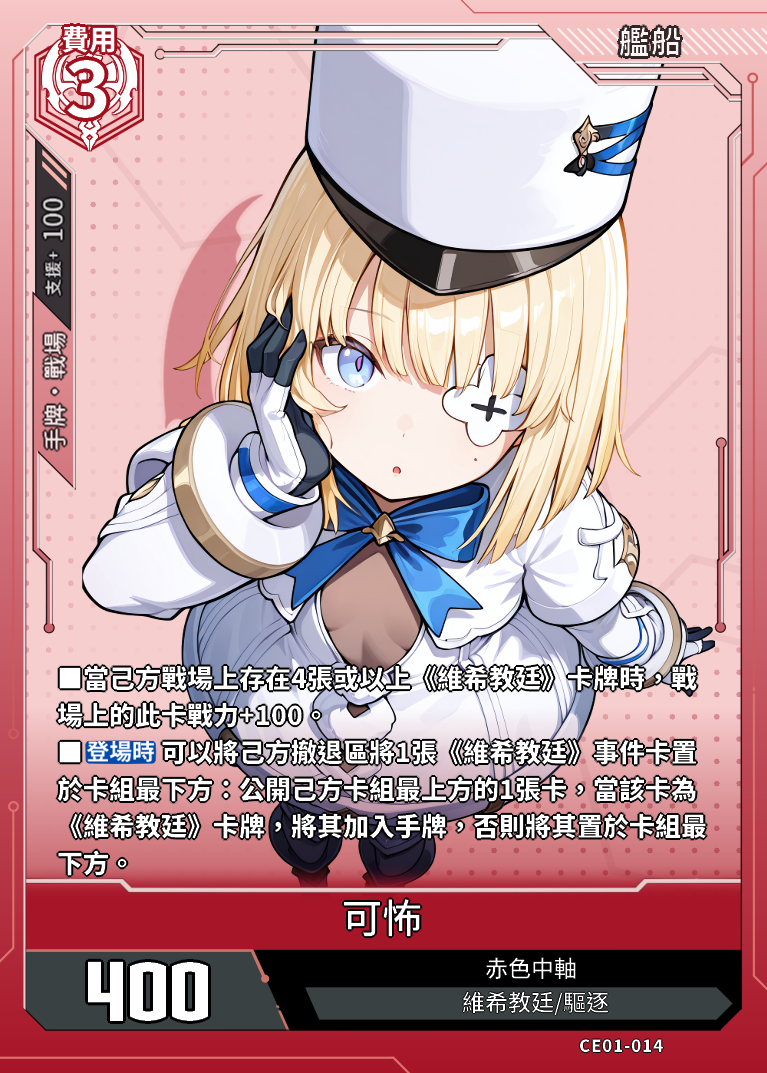
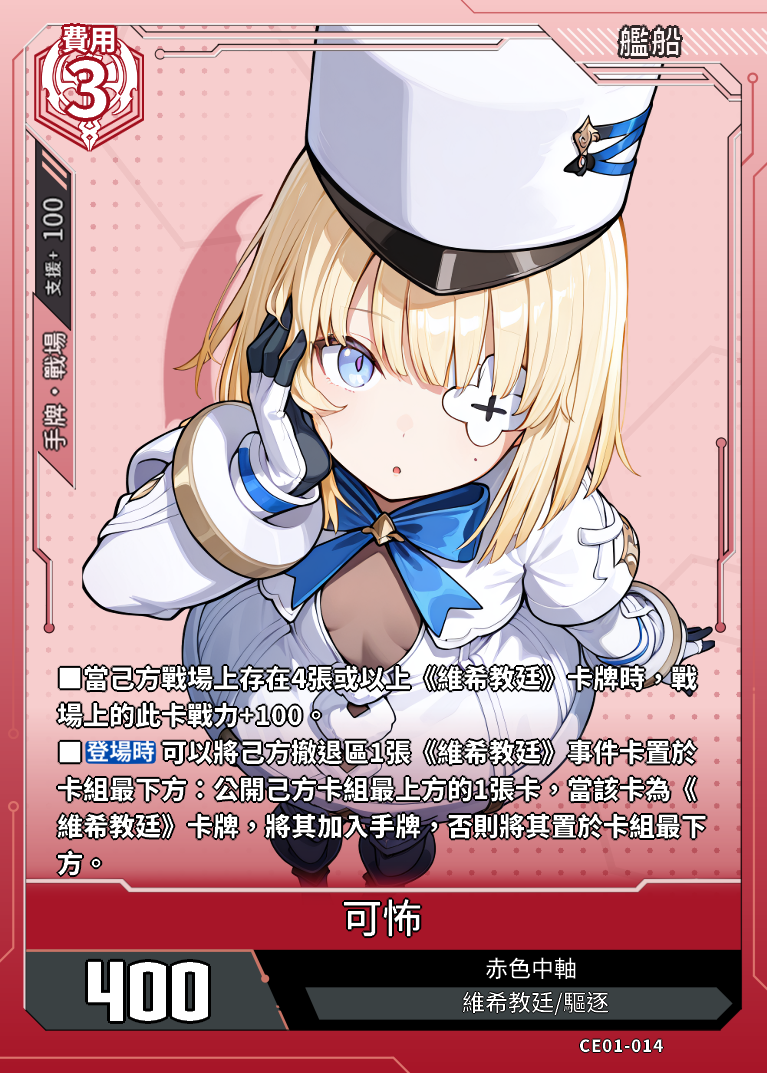
修正可怖文本

Changed region(s): [[0.06, 0.6766, 0.9296, 0.8304]]

diff --git a/data.js b/data.js
@@ -22075,7 +22075,7 @@ const cards = [
             "支援範圍": "手牌·戰場",
             "支援值": "100"
         },
-        "card_effect": "■當己方戰場上存在4張或以上《維希教廷》卡牌時，戰場上的此卡戰力+100。■【登場時】可以將己方撤退區將1張《維希教廷》事件卡置於卡組最下方：公開己方卡組最上方的1張卡，當該卡為《維希教廷》卡牌，將其加入手牌，否則將其置於卡組最下方。",
+        "card_effect": "■當己方戰場上存在4張或以上《維希教廷》卡牌時，戰場上的此卡戰力+100。■【登場時】可以將己方撤退區1張《維希教廷》事件卡置於卡組最下方：公開己方卡組最上方的1張卡，當該卡為《維希教廷》卡牌，將其加入手牌，否則將其置於卡組最下方。",
         "acquisition_method": "CE01"
     },
 	{
